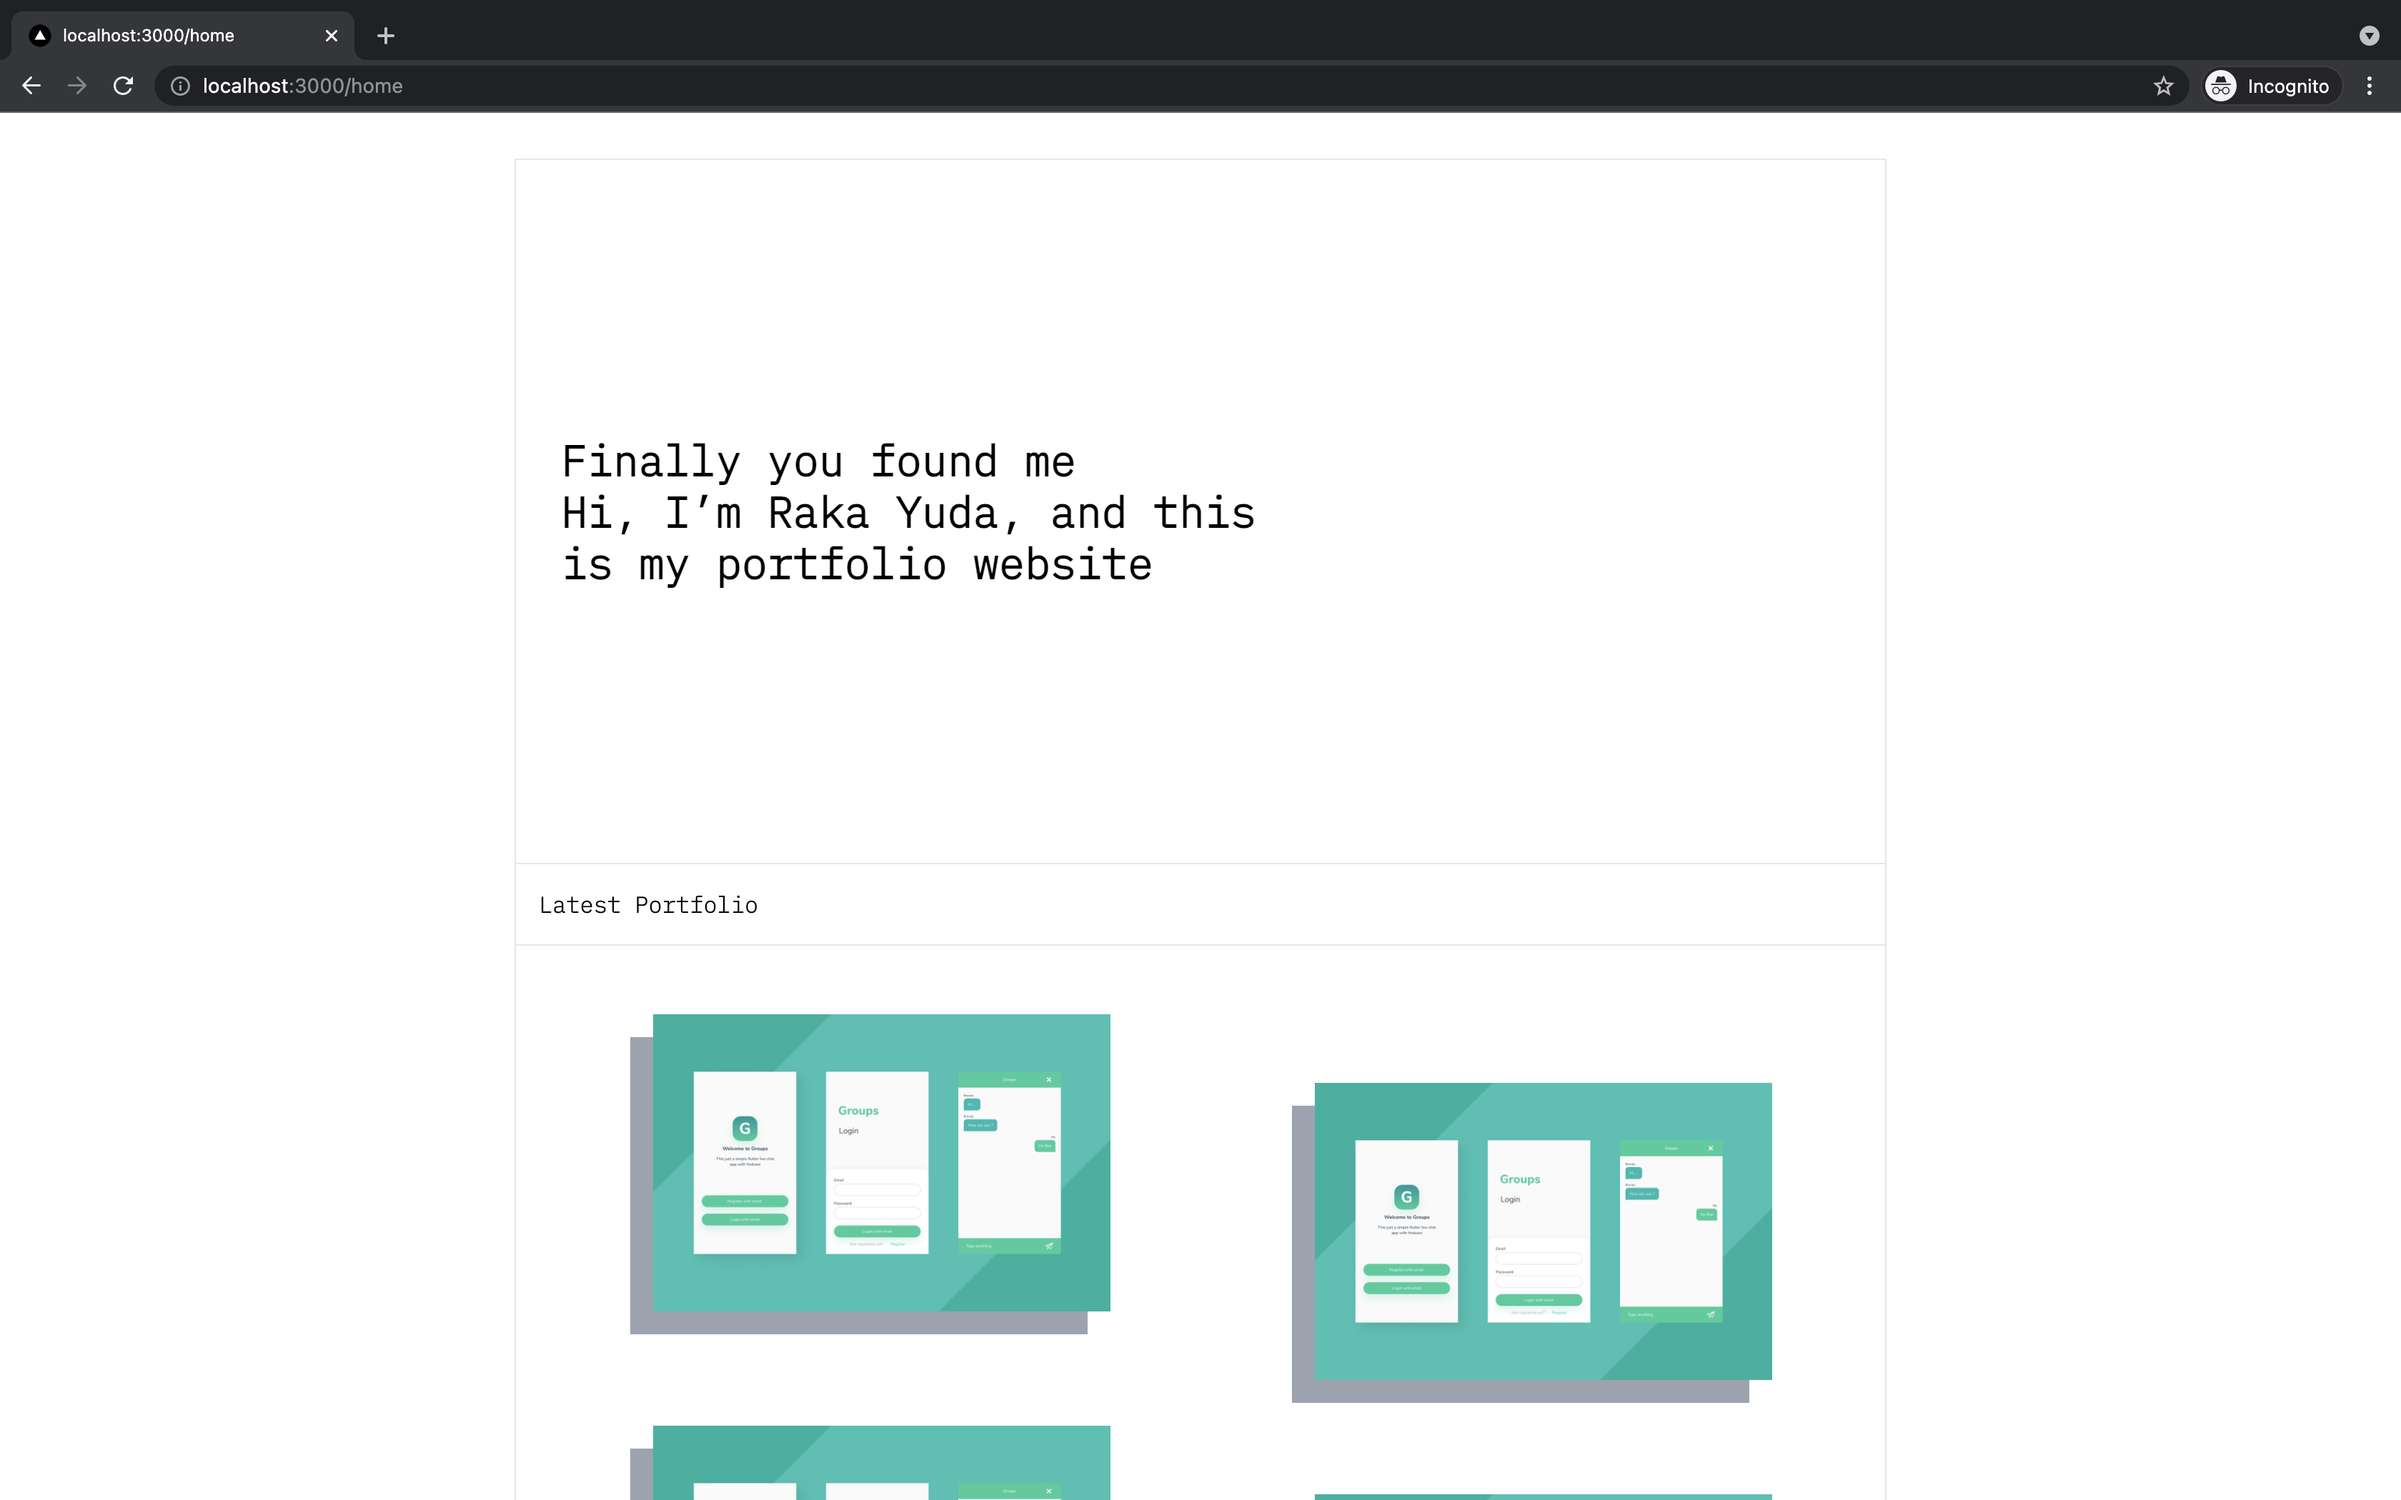
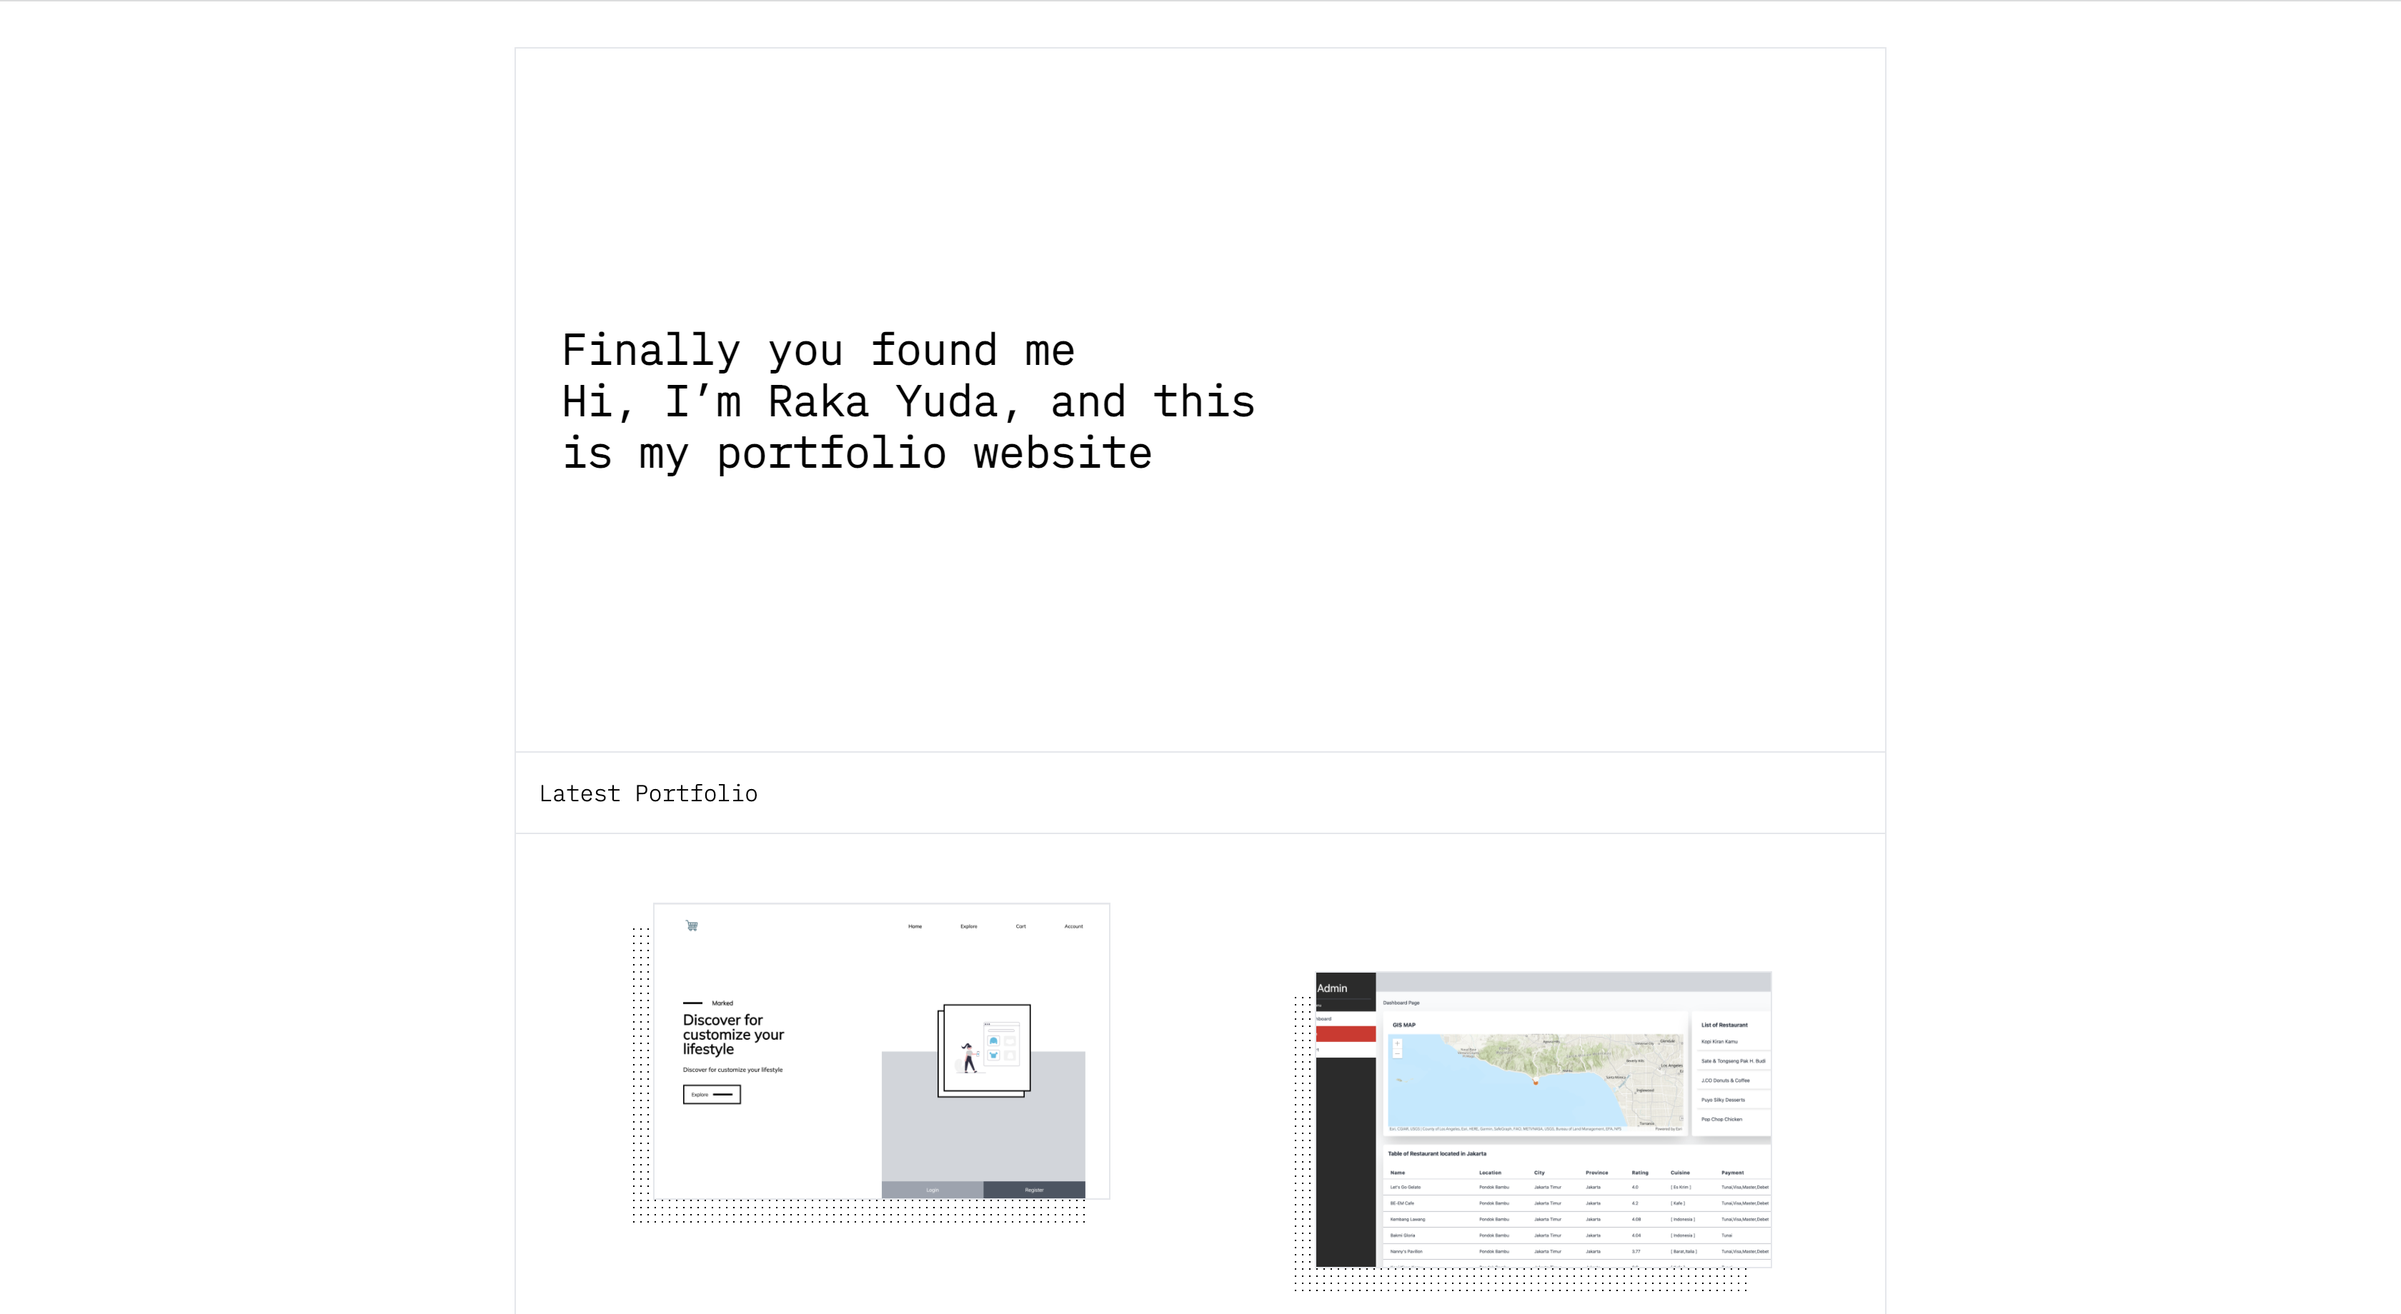
update portfolio list

diff --git a/src/pages/portfolio/[id].tsx b/src/pages/portfolio/[id].tsx
@@ -25,7 +25,10 @@ const Portfolio = ({ portfolio }: Props) => {
               <div className={`flex flex-col md:ml-3`}>
                 {portfolio.source.map((source) => {
                   return (
-                    <div className={`flex flex-row `}>
+                    <div
+                      key={"src-" + source.link}
+                      className={`flex flex-row `}
+                    >
                       <a
                         href={source.link}
                         target="_blank"
@@ -49,7 +52,17 @@ const Portfolio = ({ portfolio }: Props) => {
               className={`flex flex-row justify-center items-start z-0 ${``}`}
             >
               {/* <Link href={``}> */}
-              <div className="relative h-36 w-52 md:h-52 md:w-80 mr-4 mt-4 bg-gray-400">
+              <div
+                className="relative h-36 w-52 md:h-52 md:w-80 mr-4 mt-4 "
+                style={{
+                  backgroundColor: "#fff",
+                  backgroundImage:
+                    "radial-gradient(#000 10%, transparent 11%), radial-gradient(#000 10%, transparent 11%)",
+                  backgroundSize: "5px 5px",
+                  backgroundPosition: "0 0, 30px 30px",
+                  backgroundRepeat: "repeat",
+                }}
+              >
                 <div
                   className="relative flex justify-center items-center h-36 w-52 md:h-52 md:w-80 inset-x-4 -inset-y-4 z-20 bg-cover bg-center bg-white"
                   style={{
@@ -76,7 +89,10 @@ const Portfolio = ({ portfolio }: Props) => {
           >
             {portfolio.tags.map((tag) => {
               return (
-                <div className={`flex flex-row items-start z-0 mx-2`}>
+                <div
+                  key={"tag-" + tag}
+                  className={`flex flex-row items-start z-0 mx-2`}
+                >
                   <div className="relative mr-4 mt-4 bg-gray-400">
                     <div className="relative flex justify-center items-center  inset-x-2 -inset-y-2 z-20 bg-cover bg-center bg-white border">
                       <div className="w-full h-full flex justify-center items-center  hover:bg-opacity-60 px-2 py-1">

diff --git a/src/components/tiles/portfolio-tile.tsx b/src/components/tiles/portfolio-tile.tsx
@@ -13,7 +13,17 @@ const PortfolioTile = ({ href, title, imageUrl, className }: Props) => {
       className={`flex flex-row justify-center items-start z-0 ${className}`}
     >
       <Link href={href}>
-        <div className="cursor-pointer relative h-36 w-full md:h-52 md:w-80 mr-4 mt-4 bg-gray-400">
+        <div
+          className="cursor-pointer relative h-36 w-full md:h-52 md:w-80 mr-4 mt-4 "
+          style={{
+            backgroundColor: "#fff",
+            backgroundImage:
+              "radial-gradient(#000 10%, transparent 11%), radial-gradient(#000 10%, transparent 11%)",
+            backgroundSize: "5px 5px",
+            backgroundPosition: "0 0, 30px 30px",
+            backgroundRepeat: "repeat",
+          }}
+        >
           <div
             className="relative flex justify-center items-center h-36 w-full md:h-52 md:w-80 inset-x-4 -inset-y-4 z-20 hover:bg-black bg-cover bg-center border"
             style={{
